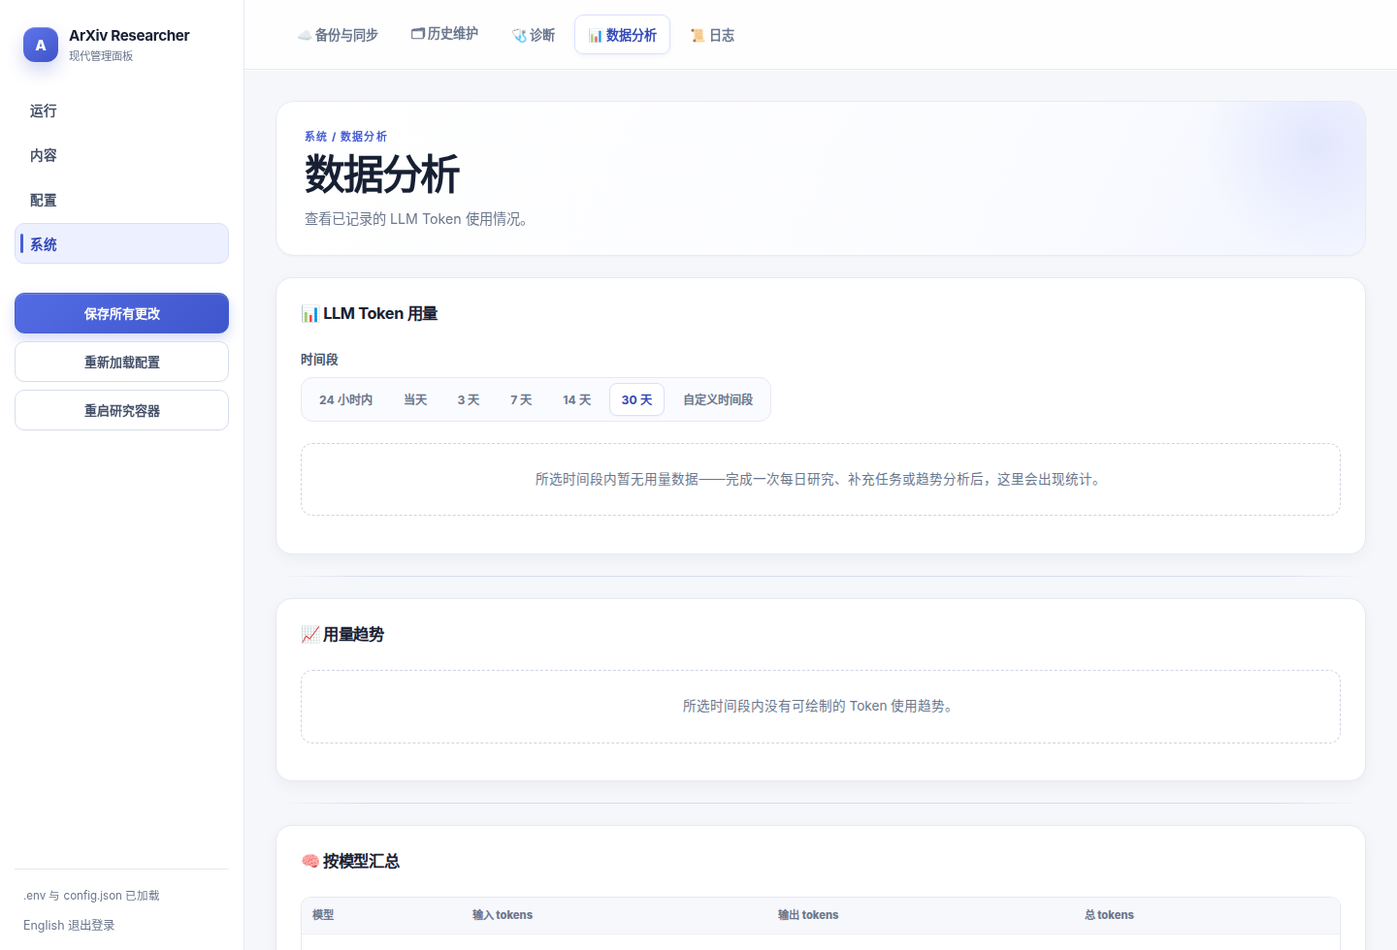
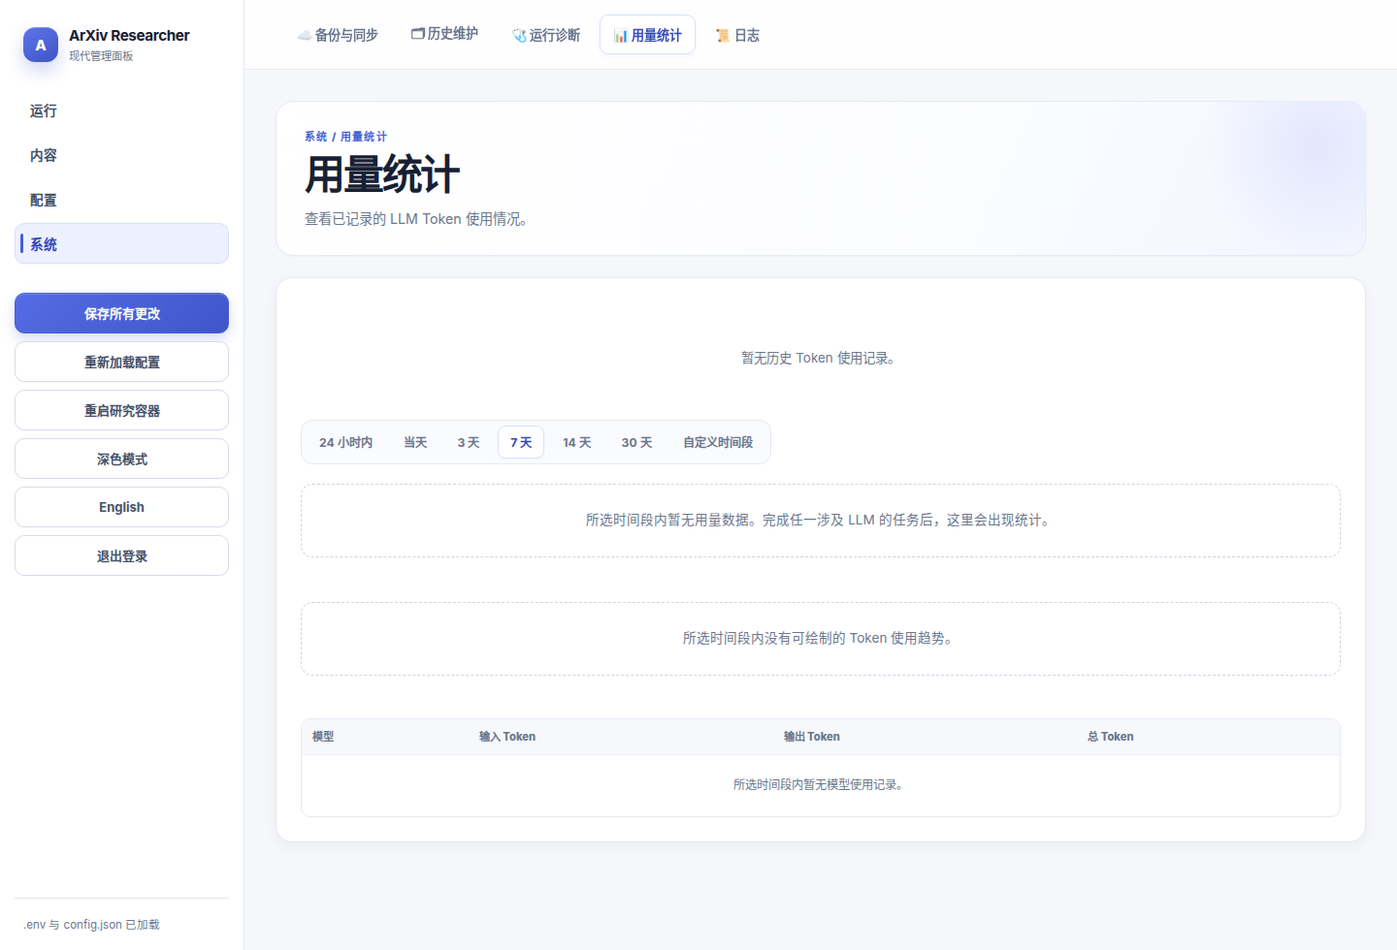
docs: prepare v4.1 release guide and screenshots

diff --git a/scripts/capture_readme_screenshots.py b/scripts/capture_readme_screenshots.py
@@ -89,6 +89,9 @@ def main() -> int:
         show_page(page, "configuration", "scoring")
         capture(page, "webui_scoring_v4.png")
 
+        show_page(page, "configuration", "advanced")
+        capture(page, "webui_advanced_v4.png")
+
         show_page(page, "system", "backup_sync")
         hide_card(page, "WebDAV")
         page.locator(".section-card", has=page.get_by_role("heading", name="本地备份")).scroll_into_view_if_needed()

diff --git a/README_EN.md b/README_EN.md
@@ -20,15 +20,15 @@
 
 ArXiv Daily Researcher collects papers from ArXiv and optional additional sources, evaluates them against a research profile, produces translated summaries and PDF analysis, tracks research trends, and delivers Markdown/HTML reports through multiple notification channels.
 
-v4.1 uses SQLite for candidate papers, processing stages, report delivery, notification outbox rows, legacy-import backlogs, and historical-daily-report queues. Each workflow can resume from completed stages, which makes the system suitable for long-running deployments.
+v4.1 uses SQLite for candidate papers, processing stages, report delivery, notification outbox rows, history-maintenance backlogs, and historical-daily-report queues. A paper can combine metadata and analysis variants from multiple sources, and each workflow can resume from completed stages for long-running deployments.
 
 The current release includes:
 
 - **Daily research**: a fixed three-day lookback for new papers and revisions
 - **Trend research**: topic, date-range, and category-based research reports
-- **Legacy import and supplement reports**: indexes legacy HTML deliveries by default, with an optional complete repair path
+- **Legacy import and supplement reports**: an HTML delivery ledger by default, with complete repair, field repair, and omission scans available independently
 - **Past daily-report queues**: replays full daily workflows over a selected date range
-- **Modern management WebUI**: configuration, execution, reports, and diagnostics through four sidebar groups and top-level page tabs
+- **Modern management WebUI**: configuration, execution, reports, diagnostics, and account management through four sidebar groups and 18 top-level pages
 
 ---
 
@@ -43,7 +43,7 @@ The current release includes:
 
 ### 📡 Multi-Source Fetching
 
-**ArXiv** is the primary source. The scanner paginates both first submissions and last updates, records scan receipts, and supports categories, announcement-delay rescans, and recovery watermarks. Optional sources include PRL, PRA/PRB, Nature, Science, Hugging Face Papers, and declarative journal definitions, with optional OpenAlex and Semantic Scholar enrichment.
+**ArXiv** is the primary source. The scanner paginates both first submissions and last updates, records scan receipts, and supports categories, announcement-delay rescans, and recovery watermarks. Optional sources include PRL, PRA/PRB, Nature, Science, Hugging Face Papers, and declarative journal definitions, with optional OpenAlex and Semantic Scholar enrichment. When the same paper appears in several sources, SQLite merges it by stable identity and retains source variants.
 
 </td>
 <td width="50%" valign="top">
@@ -69,7 +69,7 @@ Choose **Core Relevance V2**, **Weighted Keywords V1**, or **Learned Preference 
 
 ### 🗃 SQLite Queues and Exact Delivery
 
-Papers enter SQLite before downstream processing. Source, canonical identity, and version provide exact de-duplication; failed stages remain retryable, and report delivery, scan watermarks, and notification outbox rows are committed together after a report is written.
+Papers enter SQLite before downstream processing. Stable identity, source, and version control de-duplication; mergeable fields are unified while source-specific abstracts and analyses remain variants. Failed stages remain retryable, and report delivery, scan watermarks, and notification outbox rows are committed together after a report is written.
 
 </td>
 </tr>
@@ -88,7 +88,7 @@ Papers enter SQLite before downstream processing. Source, canonical identity, an
 
 ### 📜 Legacy Import and Past Daily Reports
 
-Legacy HTML reports can be indexed into the SQLite delivery ledger in one click, preventing future daily runs from repeating those papers. Complete repair additionally reads compatible JSON. HTML remains authoritative for report keywords, while the old keyword cache only fills a missing keyword section for the same reported paper. It then fills missing fields, patches original reports, and produces calendar-week supplement reports for omissions. Past daily reports use a durable date-range queue and run the complete research pipeline day by day.
+Legacy HTML reports can be indexed into the SQLite delivery ledger in one click, preventing future daily runs from repeating those papers. Complete repair additionally reads compatible JSON. HTML remains authoritative for report keywords, while the old keyword cache only fills a missing keyword section for the same reported paper. Field repair, report patching, and omission scans use SQLite as their source of truth; omissions produce calendar-week supplement reports. Past daily reports use a durable date-range queue and run the complete research pipeline day by day.
 
 </td>
 </tr>
@@ -119,14 +119,14 @@ Supports **email, WeCom, DingTalk, Telegram, Slack, and generic webhooks**. Dail
 
 ### 🧙 Setup Wizard and Modern WebUI
 
-The CLI wizard covers LLMs, sources, keywords, scoring, notifications, and advanced settings. The modern WebUI runs as a standalone ASGI service with Run, Content, Configuration, and System groups, all backed by the same persistent worker data.
+The CLI wizard covers LLMs, sources, keywords, scoring, notifications, and advanced settings. The modern WebUI runs as a standalone ASGI service with Run, Content, Configuration, and System groups, bilingual light/dark themes, and account management, all backed by the same persistent worker data.
 
 </td>
 <td width="50%" valign="top">
 
 ### 🛡 Backups, Sync, and Diagnostics
 
-SQLite automatically creates consistent gzip snapshots: all copies from today are retained, while older dates retain the newest copy per day. WebDAV uses content-change uploads; Diagnostics provides run, LLM, and source health, while Analytics provides token line trends for selectable time ranges.
+SQLite automatically creates consistent gzip snapshots: all copies from today are retained, while older dates retain the newest copy per day. WebDAV uses content-change uploads; Runtime Diagnostics provides run, LLM, and source health, while Usage Statistics provides token line trends for selectable time ranges.
 
 </td>
 </tr>
@@ -193,7 +193,7 @@ Docker users can also start the WebUI and configure the system in a browser:
 docker compose up -d --build
 ~~~
 
-Open <http://127.0.0.1:8503> and configure LLMs, sources, keywords, scoring, notifications, and the run time. The WebUI binds to the local host, which works well with a VPN or an authenticated reverse proxy.
+Open <http://127.0.0.1:8501> and configure LLMs, sources, keywords, scoring, notifications, and the run time. The WebUI binds to the local host, which works well with a VPN or an authenticated reverse proxy.
 
 Docker writes `data`, `logs`, `configs`, and `.env` as the `PUID` / `PGID` in `.env`, preventing root-owned files on NAS bind mounts. When upgrading from an old root-running image, set `ADR_REPAIR_OWNERSHIP=true` for one start, verify ownership, then remove it.
 
@@ -220,8 +220,10 @@ SMART_LLM__MODEL_NAME=gpt-4o
 {
   "keywords": {
     "primary_keywords": {
-      "weight": 1.0,
-      "keywords": ["quantum error correction", "surface code"]
+      "entries": [
+        {"keyword": "quantum error correction", "weight": 1.0},
+        {"keyword": "surface code", "weight": 0.8}
+      ]
     },
     "research_context": "fault-tolerant quantum computing and quantum error-correcting codes"
   },
@@ -296,13 +298,13 @@ The wizard shows a configuration summary before writing and creates a backup for
 
 ~~~bash
 # Local
-uvicorn src.modern_webui.app:app --host 127.0.0.1 --port 8503
+uvicorn src.modern_webui.app:app --host 127.0.0.1 --port 8501
 
 # Docker
 docker compose up -d config-panel
 ~~~
 
-Docker and local panel: <http://127.0.0.1:8503>
+Docker and local panel: <http://127.0.0.1:8501>
 
 The WebUI and worker share <code>.env</code>, <code>configs/</code>, <code>data/</code>, and <code>logs/</code>. The primary sidebar groups pages as Run, Content, Configuration, and System; the secondary pages remain in the top bar, retaining context on long configuration pages. A saved configuration is loaded by the next task. After changing the run time, use the sidebar worker-restart control to reinstall cron.
 
@@ -313,7 +315,7 @@ The WebUI and worker share <code>.env</code>, <code>configs/</code>, <code>data/
 | **Run** | **Daily Research**, **Past Daily Reports**, **Trend Tasks** | Launch research and inspect status and queues; replay past dates one day at a time; configure trend keywords, ranges, categories, and analysis independently |
 | **Content** | **Reports**, **Favorites**, **Search** | Browse and preview HTML reports, mark papers 👍/👎 inside a report, review preference profiles, and search the SQLite archive with source variants |
 | **Configuration** | **Keywords**, **Data Sources**, **Scoring**, **API**, **Notifications**, **Advanced**, **Accounts** | Manage research topics, sources, scoring, LLM/PDF/third-party APIs, notifications, runtime controls, and administrator accounts |
-| **System** | **Backup & Sync**, **History Maintenance**, **Diagnostics**, **Analytics**, **Logs** | Manage exports, WebDAV, and local backups; run legacy maintenance; inspect run/LLM/source health, token line trends, and native log views |
+| **System** | **Backup & Sync**, **History Maintenance**, **Runtime Diagnostics**, **Usage Statistics**, **Logs** | Manage exports, WebDAV, and local backups; run legacy maintenance; inspect run/LLM/source health, token line trends, and native log views |
 
 ### 🖼 WebUI Screenshots
 
@@ -325,7 +327,7 @@ The WebUI and worker share <code>.env</code>, <code>configs/</code>, <code>data/
       <sub>Daily research, status panel, and queue</sub>
     </td>
     <td align="center" width="33%">
-      <img src="assets/webui_analytics_v4.png" alt="Analytics and token usage trends" width="100%" />
+      <img src="assets/webui_analytics_v4.png" alt="Usage statistics and token trends" width="100%" />
       <br />
       <sub>Token usage, range controls, and line trends</sub>
     </td>
@@ -336,12 +338,17 @@ The WebUI and worker share <code>.env</code>, <code>configs/</code>, <code>data/
     </td>
   </tr>
   <tr>
-    <td align="center" width="50%">
+    <td align="center" width="33%">
+      <img src="assets/webui_advanced_v4.png" alt="PDF parsing and keyword trend settings" width="100%" />
+      <br />
+      <sub>PDF parsing and keyword trend settings</sub>
+    </td>
+    <td align="center" width="33%">
       <img src="assets/webui_data_management_v4.png" alt="Database backups" width="100%" />
       <br />
       <sub>Local backup and retention settings</sub>
     </td>
-    <td align="center" width="50%" colspan="2">
+    <td align="center" width="33%">
       <img src="assets/webui_history_import_v4.png" alt="Legacy history import" width="100%" />
       <br />
       <sub>v3.2 legacy history import entry point</sub>
@@ -372,7 +379,7 @@ The wizard is a convenient starting point, while the panel offers a practical da
 Docker Compose starts two services:
 
 - <code>arxiv-daily-researcher</code>: worker, cron, queue watcher, and research tasks
-- <code>config-panel</code>: modern management WebUI bound to <code>127.0.0.1:8503</code>
+- <code>config-panel</code>: modern management WebUI bound to <code>127.0.0.1:8501</code>
 
 #### Build from source
 
@@ -386,7 +393,7 @@ docker compose ps
 
 #### Use GHCR hosted images
 
-After v4.1 is released, x86_64 and ARM64 images will be available. Pin a production deployment to its matching version tag:
+v4.1 provides both x86_64 and ARM64 images. Pin a production deployment to its matching version tag:
 
 ~~~bash
 export ADR_WORKER_IMAGE=ghcr.io/yzr278892/arxiv-daily-researcher:4.1
@@ -454,7 +461,7 @@ CHEAP_LLM__BASE_URL=http://127.0.0.1:11434/v1
 CHEAP_LLM__MODEL_NAME=qwen2.5:7b
 ~~~
 
-The worker and WebUI both use host-network semantics, so they reach host-local LLMs, proxies, and DNS through the same addresses. The panel itself listens only on <code>127.0.0.1:8503</code>; configure reverse proxies and VPN access for the deployment topology.
+The worker and WebUI both use host-network semantics, so they reach host-local LLMs, proxies, and DNS through the same addresses. The panel itself listens only on <code>127.0.0.1:8501</code>; configure reverse proxies and VPN access for the deployment topology.
 
 </details>
 
@@ -524,7 +531,7 @@ Use one project directory for the worker, WebUI, SQLite database, reports, and l
 
 | Mode | Entry and coordination | Result |
 | :--- | :--------------------- | :----- |
-| <code>legacy_import</code> | System → History Maintenance → Read Legacy History; waits for related work to become idle | By default indexes existing HTML deliveries; complete repair reads compatible JSON, fills missing fields, and schedules follow-up maintenance |
+| <code>legacy_import</code> | System → History Maintenance → Read Legacy History; waits for related work to become idle | By default indexes existing HTML deliveries; complete repair reads compatible JSON, fills missing keywords for the same HTML paper, and schedules follow-up maintenance |
 | <code>history_data_repair</code> | System → History Maintenance → Repair Historical Data | Uses SQLite to fill missing scores, TLDRs, translations, or deep analyses and patches original reports |
 | <code>history_omission_scan</code> | System → History Maintenance → Scan Historical Omissions | Scans source-aware SQLite coverage and creates capped supplements by calendar week |
 | <code>supplement_run</code> | Automatically after import or manually through CLI | Processes supplement backlog and produces supplement reports |
@@ -569,7 +576,7 @@ The V1 threshold is configured as:
 pass threshold = base_score + weight_coefficient × Σ(keyword weights)
 ~~~
 
-V2 thresholds, strong-match conditions, and ranking signals are configured in **Scoring**. Scoring results retain non-sensitive audit evidence for review in reports and Analytics.
+V2 thresholds, strong-match conditions, and ranking signals are configured in **Scoring**. Scoring results retain non-sensitive audit evidence for review in reports and Runtime Diagnostics.
 
 ### 📡 Sources and Scan Receipts
 
@@ -577,7 +584,7 @@ V2 thresholds, strong-match conditions, and ranking signals are configured in **
 - **Additional sources**: built-in and declarative definitions behind an independent switch
 - **OpenAlex**: additional journal data; an API key can use the provider's official quota
 - **Semantic Scholar**: optional TLDR, citation, and related enrichment
-- **Source health**: every scan produces a terminal receipt; Analytics shows recent status, success rate, candidate count, and safe error summaries
+- **Source health**: every scan produces a terminal receipt; Runtime Diagnostics shows recent status, success rate, candidate count, and safe error summaries
 
 Watermarks advance after a complete and safe delivery. Transient network conditions are handled through retries, backoff, and later recovery windows.
 
@@ -599,7 +606,7 @@ The keyword module:
 3. generates keyword-trend reports on the configured schedule
 4. aggregates favorite keywords and Top authors in Favorites & Search
 
-Reference-PDF keyword extraction has its own switch. Disabled extraction stays outside scoring, and extracted keyword lists use a fixed-height scrolling container.
+Reference-PDF keyword extraction has its own switch. Disabled extraction stays outside scoring, and extracted keyword lists are presented in pages for long lists.
 
 ### 🔒 Mutual Exclusion and Recovery
 
@@ -706,7 +713,7 @@ arxiv-daily-researcher/
 <details>
 <summary><b>1. How should I handle empty LLM responses, timeouts, or papers in the retry queue?</b></summary>
 
-Open **System → Diagnostics → LLM Health** to review recent final outcomes, consecutive failures, success rate, last success time, and redacted error summaries.
+Open **System → Runtime Diagnostics → LLM Health** to review recent final outcomes, consecutive failures, success rate, last success time, and redacted error summaries.
 
 - 401, 403, 404, and 400: verify API key, base URL, model name, and gateway compatibility
 - 429, 5xx, timeouts, and empty responses: the shared retry/backoff policy retains incomplete stages
@@ -748,7 +755,7 @@ Check **System → History Maintenance** or **System → Logs** and <code>legacy
 <details>
 <summary><b>4. How does legacy import handle repeated analyses, missing data, and missed papers?</b></summary>
 
-The default **Read Legacy History** action parses only ArXiv cards already present in legacy HTML and creates delivery-ledger rows. It makes no LLM calls and does not scan for omissions, which is useful immediately after an upgrade.
+The default **Read Legacy History** action parses paper cards already present in legacy HTML and creates delivery-ledger rows. It makes no LLM calls and does not scan for omissions, which is useful immediately after an upgrade.
 
 **Fully repair legacy history** merges records by stable paper identity and selects the newest report analysis. Compatible JSON is written into SQLite. Extracted keywords from HTML cards are written directly to paper score records; only an already analyzed HTML card with no keyword section may read <code>data/keywords/keywords.db</code> as a read-only fallback for that same paper. The old cache's normalized terms, aliases, and derived counts are not migrated: the current SQLite normalization workflow owns them. **Check and Repair History** fills missing TLDRs, translations, or deep analyses from SQLite and patches original reports. Range-scan omissions enter the supplement queue by ISO calendar week. Each report follows the configured run cap, and remaining rows stay retryable.
 
@@ -774,7 +781,7 @@ Recommended steps:
 2. export a current zip from System → Backup & Sync as a protection copy
 3. import the target zip, gz, or db archive and review validation results
 4. restore reports, keywords, and configuration as required
-5. restart the worker and inspect System → Diagnostics and queue state
+5. restart the worker and inspect System → Runtime Diagnostics and queue state
 </details>
 
 <details>
@@ -816,7 +823,7 @@ docker compose up -d --no-build --force-recreate
 docker compose ps
 ~~~
 
-After the upgrade, inspect Analytics, queues, and recent logs to confirm compatibility with the current configuration.
+After the upgrade, inspect Runtime Diagnostics, queues, and recent logs to confirm compatibility with the current configuration.
 </details>
 
 ---
@@ -876,7 +883,7 @@ See **[CHANGELOG.md](CHANGELOG.md)** for the complete version history.
 
 <table>
 <tr><th>Version</th><th>Date</th><th>Type</th><th>Highlights</th></tr>
-<tr><td><b>v4.1</b></td><td>2026-08-30</td><td>✨ Enhancements + fixes</td><td>Modern WebUI is the default panel: four navigation groups, 18 focused pages, native selectors, contextual settings, and precise Token line trends. Legacy import and SQLite maintenance remain available under System → History Maintenance.</td></tr>
+<tr><td><b>v4.1</b></td><td>2026-08-30</td><td>✨ Enhancements + fixes</td><td>Modern WebUI is the default panel with four navigation groups, 18 focused pages, account management, and local updates. Legacy maintenance, cross-source merging, LLM endpoint capability detection, runtime diagnostics, and Token line trends are expanded together.</td></tr>
 <tr><td><b>v4.0</b></td><td>2026-08-25</td><td>🚀 Major release</td><td>SQLite daily-history system, durable candidate and retry queues, complete scan receipts, Core Relevance V2, favorites, legacy import with automatic supplement reports, past-daily date-range queues, SQLite backups with incremental WebDAV archive, LLM health, workflow notifications, GHCR AMD64/ARM64 images, and release regression.</td></tr>
 <tr><td><b>v3.2</b></td><td>2026-04-26</td><td>✨ Enhancements + fixes</td><td>Network proxy, WebDAV data sync, configuration export, Docker update notifications, Daily Push tab, Markdown/HTML output switches, and trend-analysis output settings.</td></tr>
 <tr><td><b>v3.1</b></td><td>2026-04-15</td><td>✨ Enhancements + fixes</td><td>Run management, log viewer, Trend Analysis tab, report-view improvements, ArXiv timeout guard, and run-lock improvements.</td></tr>

diff --git a/CHANGELOG.md b/CHANGELOG.md
@@ -6,20 +6,24 @@
 
 ---
 
-## 🚀 v4.1 — 开发中
+## 🚀 v4.1 — 2026-08-30
 
-### ✨ 功能优化
+### ✨ 新功能
 
-1. **报告范围的旧关键词兼容** — v3.2 的 `keywords.db` 不再整库迁移。旧 HTML 报告中的提取关键词直接进入新 SQLite；仅当同一张已分析 HTML 卡片没有关键词时，完整修复才以只读方式查询旧缓存补位。旧库的规范词、别名和派生统计不会导入，统一由当前 SQLite 关键词标准化流程维护。
-2. **现代 WebUI 成为默认面板** — 基于 Starlette/Uvicorn 的轻量管理界面取代运行时 Streamlit 依赖；旧 Streamlit 实现保存在 `archive/streamlit-webui` 分支，主分支的 Docker WebUI 镜像只构建现代 ASGI 服务。
-3. **四组 18 页导航** — 侧栏提供运行、内容、配置、系统四个一级分组，顶部保留页面级导航；历史维护、诊断、数据分析和日志各自独立，运行状态、队列与维护任务不再混杂。
-4. **现代化控件与条件配置** — 统一按钮尺寸、间距、原生滚动选择器和下拉箭头；arXiv 分类与额外来源采用标签式多选，选项列表约显示五项后滚动。OpenAlex 期刊来源受 API 开关控制，趋势 TL;DR 与综合分析关闭时隐藏关联参数。
-5. **精确 Token 折线趋势** — 数据分析提供 24 小时、当天、3/7/14/30 天及自定义日期范围；按小时或按天聚合并以三条无填充折线展示输入、输出和总 Token。
+1. **现代管理 WebUI** — 主分支默认使用基于 Starlette/Uvicorn 的管理界面。侧栏按运行、内容、配置、系统分组，顶部保留 18 个页面；支持中英文、浅色/深色主题、管理员账户、7 天会话和可信内网跳过登录。
+2. **任务与历史维护界面** — 每日研究、过去日报和趋势任务各自展示运行状态、最新日志和队列；历史维护独立管理旧版本导入、数据补全、遗漏扫描、问题摘要和重试入口。页面交互优先局部更新，避免刷新整个面板。
+3. **旧历史导入可靠性** — 默认导入只登记旧 HTML 中已经交付的论文。完整修复可读取兼容 JSON，并为同一 HTML 论文以只读方式补齐旧 `keywords.db` 中缺失的关键词；SQLite 负责后续字段补全、遗漏扫描、自然周补充报告和可重试积压。
+4. **多来源历史归并** — 每日研究、过去日报和遗漏扫描覆盖已启用来源。SQLite 以稳定身份归并同一论文，保留来源变体和无法合并的分析结果，关键词等可合并字段去重保存。
+5. **评分与趋势配置** — 主关键词和作者加分支持逐项权重；趋势研究提供可编辑的内置提示词模板，综合分析固定使用所选模板。关键词标准化可选择 LLM 角色，趋势视图与报告频率可单独配置。
+6. **运行诊断与用量统计** — 运行诊断、LLM 健康和来源健康支持 3/7/14/30 天或全部范围、按页查看和阶段错误摘要；用量统计提供热力图、横向汇总表、模型统计，以及 24 小时到自定义区间的 Token 折线图。
+7. **运维与安全** — Worker 与 WebUI 以配置的 `PUID` / `PGID` 写入挂载目录；健康检查覆盖服务与共享状态；本地备份支持当天最大副本数、历史按日保留和可配置保留期，WebDAV 保持内容变化时上传的增量归档。
 
-### 🐛 Bug 修复 / 优化
+### 🐛 修复与优化
 
-1. **WebUI 运行期依赖收敛** — 移除 Streamlit、其组件和数据可视化依赖，避免弃用 API 警告，并降低 WebUI 镜像体积与启动开销。
-2. **面板健康检查初始化** — 首次部署尚未创建 SQLite 目录时，WebUI 健康检查会先初始化必要路径，避免健康状态误报失败。
+1. **LLM 兼容性检测** — OpenAI 兼容网关返回 404/405 时记录 Chat Completions / Responses 端点能力，后续调用跳过已确认不支持的无效回退；错误日志与通知提供脱敏的阶段摘要。
+2. **任务协调与可观测性** — 历史导入在每日研究、过去日报、趋势任务和维护任务空闲后自动执行；触发与 worker 重启状态文件按上限轮转，失败状态展示阶段错误而非单一退出码。
+3. **面板交互与可读性** — 报告预览去除加载虚线框；收藏论文改为表格；日志、报告、长列表和关键词采用边界明确的滚动或分页视图；PDF 解析器与关键词趋势设置调整控件间距。
+4. **Docker 发布与端口** — 运行期移除 Streamlit 依赖，WebUI 镜像仅包含 ASGI 服务；首次健康检查会初始化必要 SQLite 路径；管理面板恢复为仅监听 `127.0.0.1:8501`。
 
 ---
 
